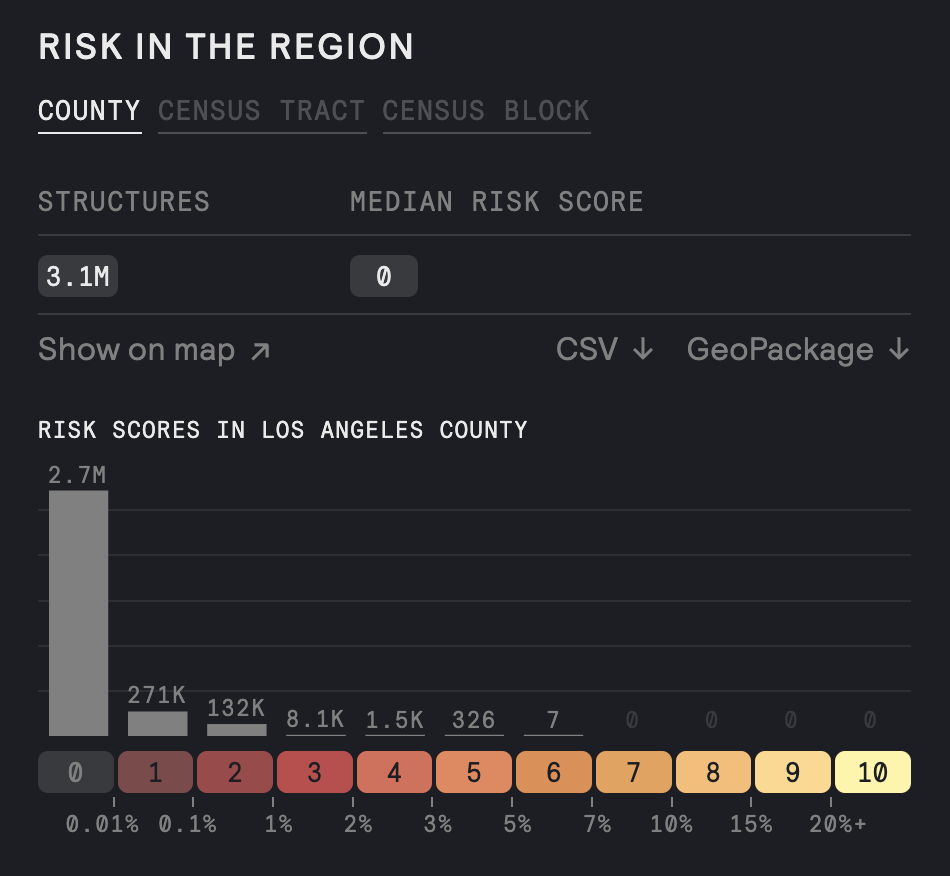
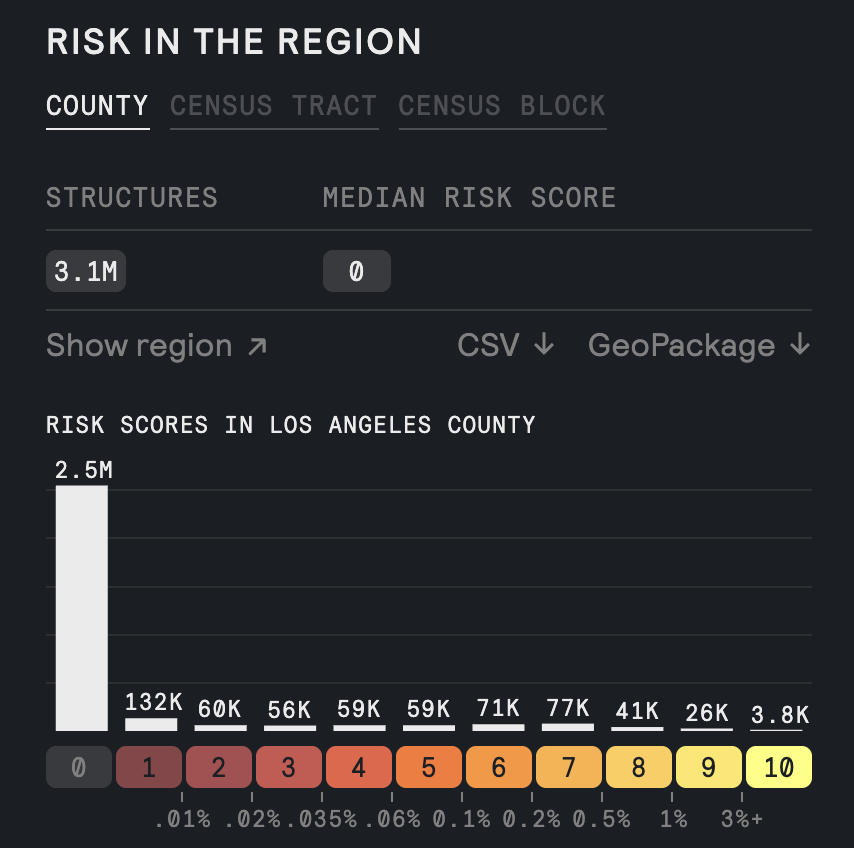
Docs polish round (#318)
* Text updates

* Clean up empty pages

* Remove diagram and clean up typo

* Remove TODOs

* Update screenshot

* Remove docs from sidebar

Changed region(s): [[0.0304, 0.4599, 0.9742, 0.9811], [0.0304, 0.2146, 0.9438, 0.4292], [0.0304, 0.0307, 0.7002, 0.1533]]

diff --git a/docs/how-to/getting-started.md b/docs/how-to/getting-started.md
@@ -6,26 +6,20 @@ This guide helps you get started with accessing and using OCR's wind-adjusted fi
 
 **Open Climate Risk (OCR)** is CarbonPlan's platform for analyzing building-level wildfire risk across CONUS. OCR provides:
 
-- **Building-level fire risk scores** for ~160 million structures
+- **Building-level fire risk** for ~160 million structures
 - **Wind-adjusted fire spread modeling** that accounts for directional fire propagation
 - **Multiple output formats**: Interactive web maps, downloadable datasets, and cloud-native data access
-- **Present and future scenarios**: Current conditions (circa 2023) and future projections (circa 2047)
+- **Present and future scenarios**: Current conditions (circa 2011) and future projections (circa 2047)
 
 ## Quick Access Options
 
 ### Option 1: Explore the Web Tool
 
-The fastest way to explore OCR data is through our interactive web map:
-
-**[ocr.carbonplan.org](https://ocr.carbonplan.org)**
-
-The web tool allows you to:
+The fastest way to explore OCR data is through our [interactive web map](https://ocr.carbonplan.org). The web tool allows you to:
 
 - Search for specific addresses or locations
 - View building-level risk scores on a 1-10 scale
-- Explore county and census tract aggregations
-- Compare baseline vs. wind-adjusted risk
-- Examine different time horizons (1, 15, and 30-year)
+- Explore county, census tract, and census block aggregations
 
 ### Option 2: Access Production Data
 
@@ -84,7 +78,8 @@ The dataset contains several key variables:
 - Risk scores are for a "generic" or "potential" structure at each location
 
 !!! note "Important Limitation"
-Risk scores represent a hypothetical structure and do NOT account for building-specific factors like construction materials, retrofits, or defensible space management. See [Caveats & Limitations](../methods/fire-risk/limitations.md) for details.
+
+    Risk scores represent a hypothetical structure and do NOT account for building-specific factors like construction materials, retrofits, or defensible space management.
 
 ## Next Steps
 
@@ -98,7 +93,6 @@ Risk scores represent a hypothetical structure and do NOT account for building-s
 
 - **[Fire Risk Methods Overview](../methods/fire-risk/overview.md)**: Understand how risk scores are calculated
 - **[Data Sources and Provenance](../methods/fire-risk/data-sources-and-provenance.md)**: Learn about input datasets
-- **[Validation and Uncertainty](../methods/fire-risk/validation-and-uncertainty.ipynb)**: Model evaluation and limitations
 
 ### For Developers
 

diff --git a/docs/methods/fire-risk/overview.md b/docs/methods/fire-risk/overview.md
@@ -111,7 +111,6 @@ For each 30m pixel:
 - Convert continuous RPS values to categorical risk scores (1-10 scale)
 - Scores based on percentile bins of RPS across full CONUS domain
 
-For detailed implementation steps, see the [Implementation](./implementation.ipynb) page.
 
 ## Spatial Processing Architecture
 
@@ -154,9 +153,7 @@ See [Horizontal Scaling via Spatial Chunking](./horizontal-scaling-via-spatial-c
 - **No explicit fire suppression**: Model does not account for firefighting efforts
 - **Wildfire focus only**: Does not include structure-to-structure fire spread in WUI
 - **99th percentile FFWI**: Fire weather threshold may not perfectly capture conditions during largest fires
-- **Point-specific wind data**: Wind directions at pixel B determine spreading, regardless of wind at upwind pixel A (see limitations discussion)
-
-For a detailed discussion of caveats, see [Caveats & Limitations](./limitations.md).
+- **Point-specific wind data**: Wind directions at pixel B determine spreading, regardless of wind at upwind pixel A
 
 ## Factors Not Included
 
@@ -173,8 +170,6 @@ The risk scores described above represent risk to a **"potential" or "generic" s
 
 **Interpretation guidance**: The risk score at a given address should be understood as risk to a generic building at that location, leaving it to users to assess how their actual building compares to that generic baseline.
 
-For validation approaches and uncertainty quantification, see [Validation and Uncertainty](./validation-and-uncertainty.ipynb).
-
 ## References and Further Reading
 
 ### Primary Data Sources
@@ -190,11 +185,3 @@ For validation approaches and uncertainty quantification, see [Validation and Un
 - Richards (1990): Elliptical fire spread wavelets
 - Finney (2005): "The challenge of quantitative risk analysis for wildland fire"
 - Scott and Thompson (2015): Expected net value change / RPS definition
-
-### Related Documentation
-
-- [Data Sources and Provenance](./data-sources-and-provenance.md): Detailed data access and preprocessing
-- [Implementation](./implementation.ipynb): Step-by-step calculation details
-- [Validation and Uncertainty](./validation-and-uncertainty.ipynb): Model evaluation and uncertainty analysis
-- [Horizontal Scaling via Spatial Chunking](./horizontal-scaling-via-spatial-chunking.ipynb): Parallel processing architecture
-- [Data Pipeline Tutorial](../../tutorials/data-pipeline.md): Runnable tutorial for reproducing calculations

diff --git a/docs/index.md b/docs/index.md
@@ -5,10 +5,9 @@
 ## Quick Links
 
 - [**Web Tool**](https://ocr.carbonplan.org)
-- [**Explainer Article**](TK)
-- [**GitHub Repository**](https://github.com/carbonplan/ocr)
-- [**Data Access**](./how-to/work-with-data.ipynb)
-- [**Dataset Releases**](https://github.com/carbonplan/ocr/releases)
+- [**Explainer Article**](https://ocr.carbonplan.org/research/climate-risk-explainer)
+- [**GitHub Repository**](https://github.com/carbonplan/ocr) (currently private)
+- [**Dataset Releases**](https://github.com/carbonplan/ocr/releases) (currently private)
 
 ## Getting Started
 
@@ -18,7 +17,7 @@
 
     1. Start with [Working with Data][access-ocr-output-data] to learn how to load production datasets
     2. Explore the [Data Schema][data-schema] to understand available variables
-    3. Check [Data Downloads][data-downloads] for direct S3 access
+    3. Check [Data Downloads][data-downloads] for an overview of all available formats
 
 === "Contributing to OCR"
 
@@ -34,7 +33,6 @@
 
     1. Read the [Fire Risk Overview][fire-risk-methods-overview] for conceptual background
     2. Explore [Data Sources and Provenance][input-datasets-technical-reference-how-to]
-    3. Review [Implementation][implementation] for technical details
 
 ## Documentation Structure
 
@@ -85,6 +83,4 @@ This documentation follows the [Diataxis framework](https://diataxis.fr/) to hel
 
 ## License
 
-OCR code is released under the MIT License. See [LICENSE](https://github.com/carbonplan/ocr/blob/main/LICENSE) for details.
-
-## See [data downloads][data-downloads] for information about data licensing.
+OCR code is released under the MIT License. See [LICENSE](https://github.com/carbonplan/ocr/blob/main/LICENSE) for details. See [data downloads](reference/data-downloads.md) for information about data licensing.

diff --git a/docs/tutorials/data-pipeline.md b/docs/tutorials/data-pipeline.md
@@ -1,8 +1,6 @@
 # OCR Data Pipeline
 
-![](../assets/ocr_data_flow.png)
-
-The OCR (Optimal Climate Risk) data pipeline processes climate risk data through a series of coordinated stages, from individual region processing to final tile generation for visualization.
+The OCR (Open Climate Risk) data pipeline processes climate risk data through a series of coordinated stages, from individual region processing to final tile generation for visualization.
 
 ## Overview
 

diff --git a/docs/methods/fire-risk/data-sources-and-provenance.md b/docs/methods/fire-risk/data-sources-and-provenance.md
@@ -1,8 +1,3 @@
-# TODO
-
-- What transformations we did
-- Where it came from
-
 # Input datasets (technical reference + how-to)
 
 This page documents the main input datasets used by OCR and shows how to access them programmatically via the `ocr` dataset catalog. Treat this as a technical reference for dataset names, example usage, and ingestion notes.
